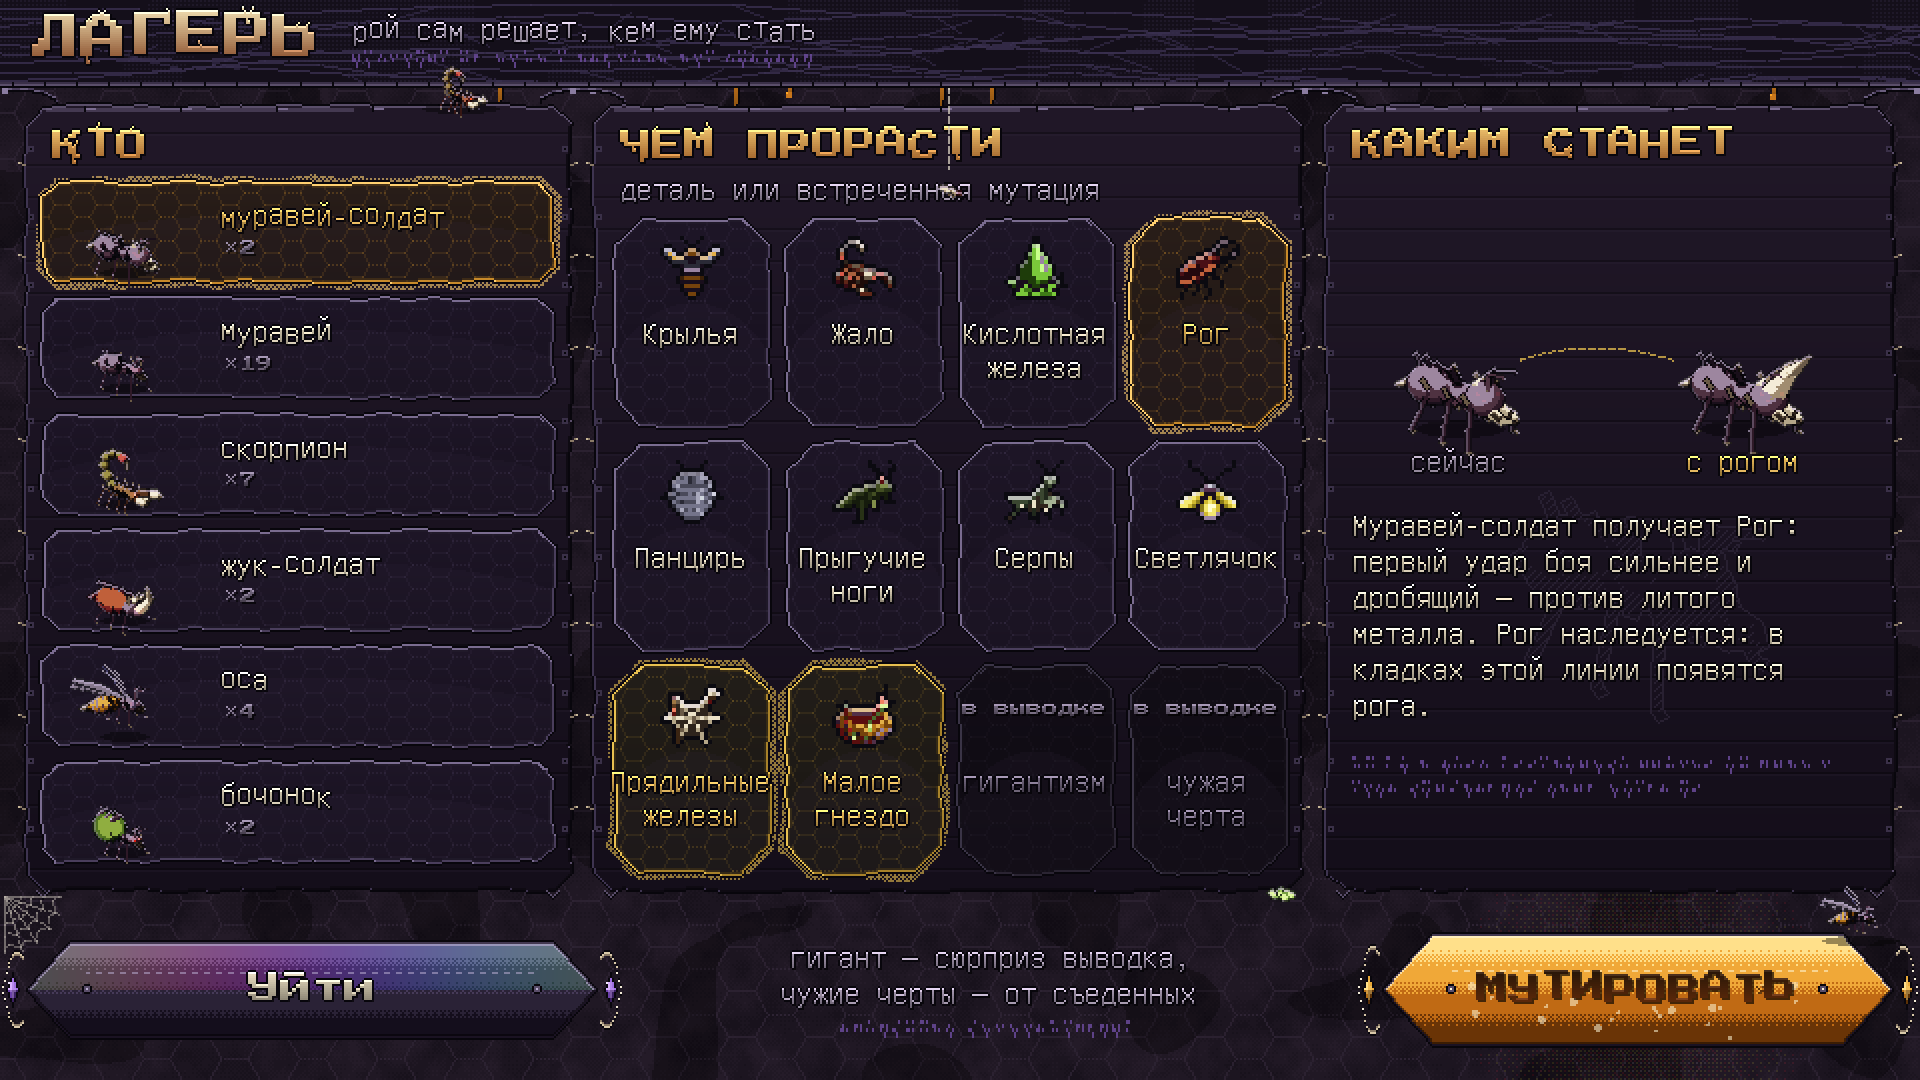
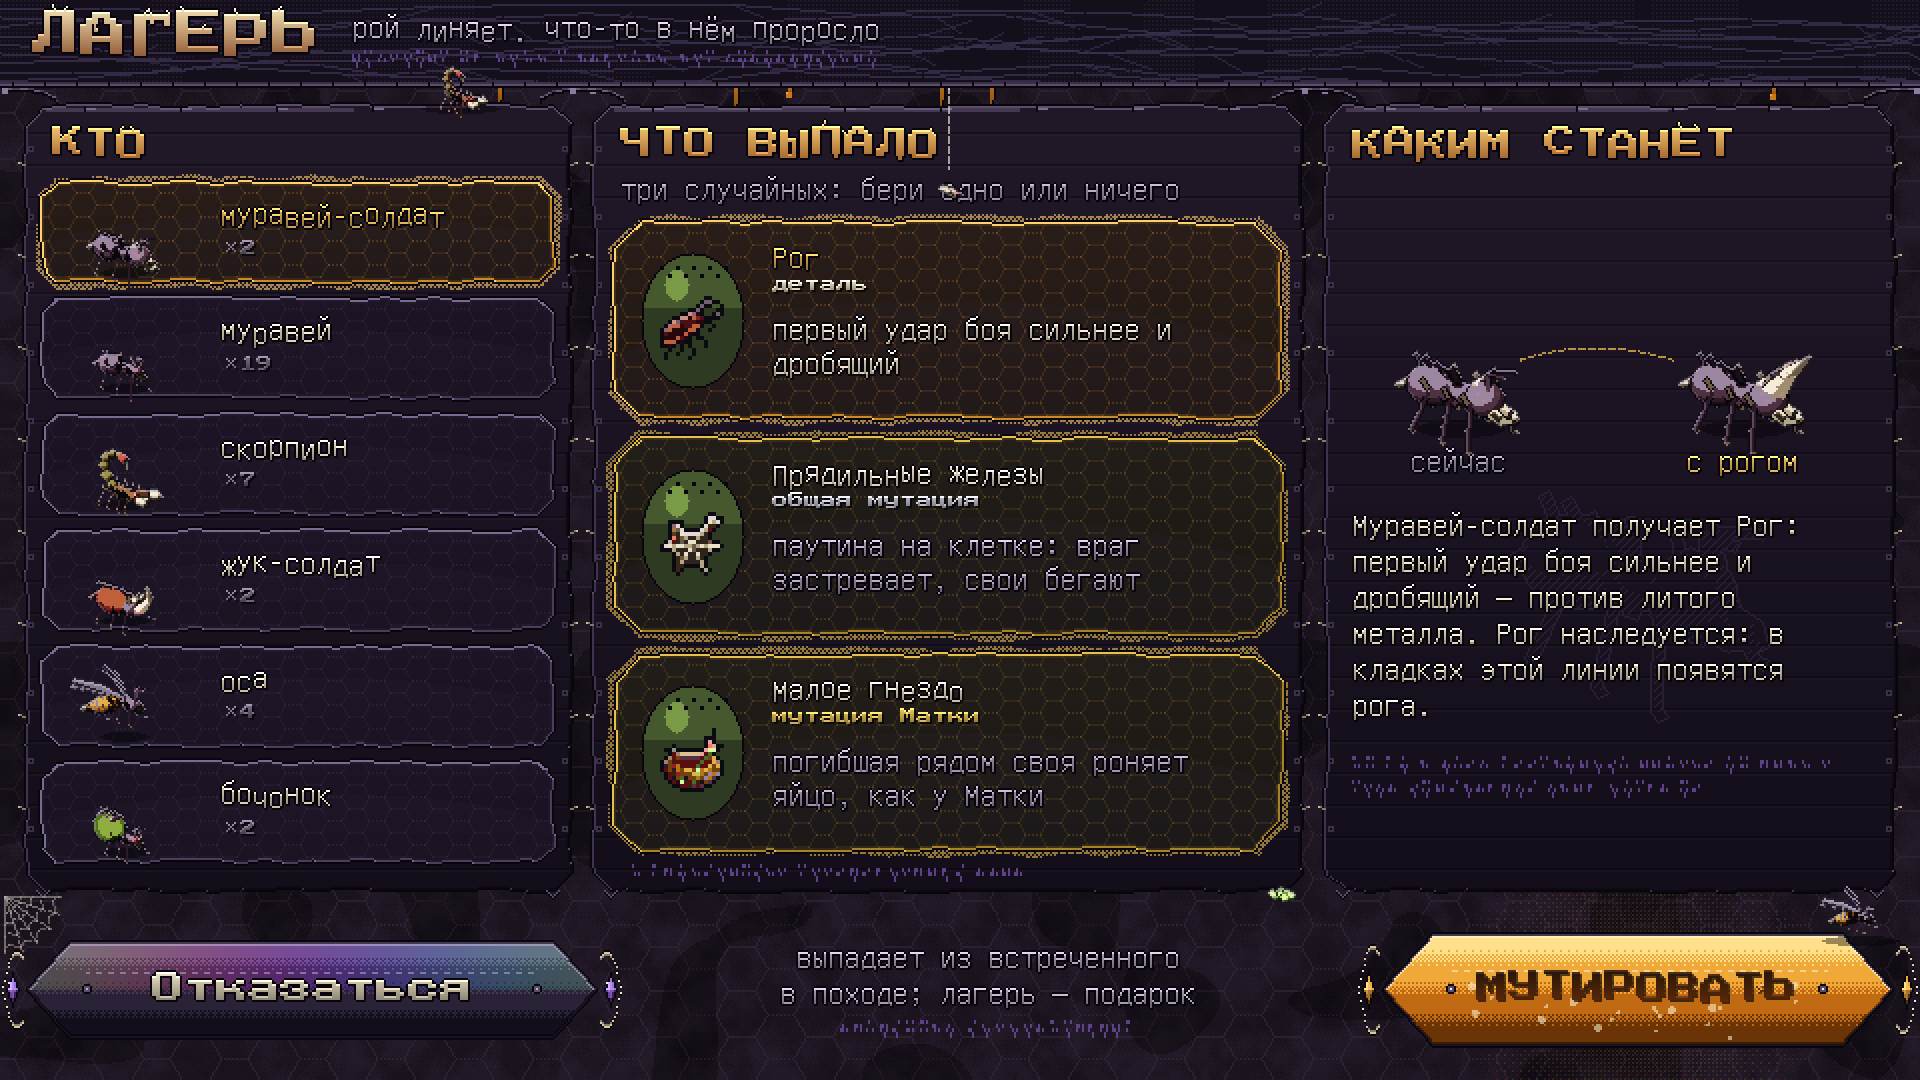
Рой: мутации в лагере случайны — три варианта, одна особь берёт один или отказывается
Claude-Session: https://claude.ai/code/session_01Bh6a99SKMjjKSinDnrtssC

diff --git a/tools/sprites/swarm_hud.py b/tools/sprites/swarm_hud.py
@@ -189,7 +189,7 @@ def camp():
     sc = frame_screen(73)
     UI.wing(sc, 0, 0, WW, 44)
     UI.drips(sc, 60, 900, 44, "#b06818", n=6, seed=5)
-    title(sc, "ЛАГЕРЬ", "рой сам решает, кем ему стать", seed=21)
+    title(sc, "ЛАГЕРЬ", "рой линяет. что-то в нём проросло", seed=21)
     # who
     UI.plate(sc, 12, 52, 286, 446, antennae=True)
     heading(sc, "КТО", 26, 64, seed=1)
@@ -199,26 +199,35 @@ def camp():
         put(sc, W.build(traits, 0.03, "idle", soldier, k=1.1 if soldier else 1.4, genes=W.genes_for(70 + i)), 62, y0 + 46, 12)
         letters(sc, name, 110, y0 + 9, "text", 16, col=GOLD if i == 0 else INK, jitter=1, seed=i)
         letters(sc, f"×{n}", 112, y0 + 30, "title", 8, col=PALE, outline=False)
-    # what it sprouts
+    # what fell out: three random offers, one of them or nothing
     UI.plate(sc, 296, 52, 652, 446, antennae=True)
-    heading(sc, "ЧЕМ ПРОРАСТИ", 310, 64, seed=2)
-    letters(sc, "деталь или встреченная мутация", 310, 86, "text", 16, col=MUTED)
-    keys = [d[0] for d in SS.DETAILS] + ["m_" + r[0] for r in SS.MUTS_MET] + ["giant", "chimera"]
-    names = {d_[0]: d_[1] for d_ in SS.DETAILS}
-    names.update({"m_" + r[0]: r[1] for r in SS.MUTS_MET})
-    names.update(giant="гигантизм", chimera="чужая черта")
-    for k_, key in enumerate(keys):
-        x0, y0 = 306 + (k_ % 4) * 86, 108 + (k_ // 4) * 112
-        locked = key in ("giant", "chimera")
-        UI.cell(sc, x0, y0, x0 + 80, y0 + 106, "locked" if locked else ("hi" if k_ == SS.PICK else ("mut" if key.startswith("m_") else "normal")))
-        if not locked:
-            icon(sc, key, x0 + 24, y0 + 10, 2)
-        lines = wrap(names[key], 74)
-        for n_, ln in enumerate(lines):
-            letters(sc, ln, x0 + 40, y0 + 50 + n_ * 17, "text", 16,
-                    col=PALE if locked else (GOLD if key.startswith("m_") or k_ == SS.PICK else INK), align="center")
-        if locked:
-            letters(sc, "в выводке", x0 + 40, y0 + 18, "title", 8, col=PALE, outline=False, align="center")
+    heading(sc, "ЧТО ВЫПАЛО", 310, 64, seed=2)
+    letters(sc, "три случайных: бери одно или ничего", 310, 86, "text", 16, col=MUTED)
+    offers = [("horn", "Рог", "деталь", "первый удар боя сильнее и дробящий", (236, 224, 196)),
+              ("m_spinner", "Прядильные железы", "общая мутация", "паутина на клетке: враг застревает, свои бегают", (206, 206, 222)),
+              ("m_nest", "Малое гнездо", "мутация Матки", "погибшая рядом своя роняет яйцо, как у Матки", (240, 200, 90))]
+    X, Y = sc.xx, sc.yy
+    for k_, (key, name, kind, what, kcol) in enumerate(offers):
+        y0 = 110 + k_ * 108
+        UI.cell(sc, 306, y0, 642, y0 + 100, "hi" if k_ == 0 else ("mut" if key.startswith("m_") else "normal"))
+        ex, ey = 346, y0 + 50                                   # each offer hatched from its own egg
+        egg = ((X - ex) / 26) ** 2 + ((Y - ey) / 34) ** 2 <= 1
+        sc.rgb[egg] = hexc("#2e3a22")
+        sc.rgb[egg & (Y < ey - 6)] = hexc("#46582e")
+        sc.rgb[egg & (((X - ex + 8) / 6) ** 2 + ((Y - ey + 18) / 8) ** 2 <= 1)] = hexc("#7a9a48")
+        eo, _, _ = UI.edges(egg)
+        sc.rgb[eo] = UI.OUTL
+        for t in range(9):                                     # the crack it came out of
+            cx_, cy_ = ex - 16 + t * 4, ey - 26 + (3 if t % 2 else -1)
+            sc.rgb[int(cy_):int(cy_) + 2, int(cx_):int(cx_) + 2] = UI.OUTL
+        sc.occ[egg] = True
+        sc.light[egg] = 0
+        icon(sc, key, ex - 16, ey - 12, 2)
+        letters(sc, name, 386, y0 + 10, "text", 16, col=GOLD if k_ == 0 else INK, jitter=1, seed=k_)
+        letters(sc, kind, 386, y0 + 28, "title", 8, col=kcol, outline=False)
+        for n_, ln in enumerate(wrap(what, 244)):
+            letters(sc, ln, 386, y0 + 46 + n_ * 17, "text", 16, col=MUTED if k_ else INK)
+    scribble(sc, 316, 434, 200, seed=36)
     # what it becomes
     UI.plate(sc, 662, 52, 948, 446, antennae=True)
     UI.engrave(sc, bug((), "idle", 4.2, 70, soldier=True), 820, 330, col="#2a2234", k=0.9)
@@ -236,11 +245,11 @@ def camp():
     scribble(sc, 676, 392, 180, seed=32)
     # leave / mutate
     UI.button(sc, 12, 470, 300, 520, "chitin")
-    letters(sc, "Уйти", 156, 486, "title", 16, col=INK, align="center")
+    letters(sc, "Отказаться", 156, 486, "title", 16, col=INK, align="center")
     UI.button(sc, 690, 466, 948, 524, "amber")
     letters(sc, "МУТИРОВАТЬ", 819, 486, "title", 16, col=DARK, col2=(90, 40, 10), outline=False, align="center", jitter=1)
-    letters(sc, "гигант — сюрприз выводка,", 495, 470, "text", 16, col=MUTED, align="center")
-    letters(sc, "чужие черты — от съеденных", 495, 488, "text", 16, col=MUTED, align="center")
+    letters(sc, "выпадает из встреченного", 495, 470, "text", 16, col=MUTED, align="center")
+    letters(sc, "в походе; лагерь — подарок", 495, 488, "text", 16, col=MUTED, align="center")
     scribble(sc, 420, 512, 150, seed=33)
     # the living
     UI.creature(sc, bug(("stinger",), "idle", 1.0, 71), 230, 54)

diff --git a/docs/CONCEPT.md b/docs/CONCEPT.md
@@ -1040,7 +1040,7 @@
 | Предсмертный крик | постоянно | погибая, особь роя кричит в разум убийцы: тот получает 1 пси, мимо брони; безмозглый — 1 пси за каждые две смерти. Чем больше рой гибнет, тем дороже это врагу |
 | Захват разума | перезарядка 6 ходов | враг ниже половины здоровья переходит к рою: размер 1–3 — на 5 ходов, 4–5 — на 2 хода; размер 6–7 не переходит, его только оглушает на раунд |
 | Хрупкий мозг | слабость | мало здоровья и мягкое тело; гибель обезглавливает рой |
-| Мыслящая порода | правило похода | в выводке выпадают **пси-мутации** — на пси и страх (см. ниже); чаще у потомков тех, кто стоял в бою рядом с Разумом. В лагере их тоже можно выбрать |
+| Мыслящая порода | правило похода | в выводке выпадают **пси-мутации** — на пси и страх (см. ниже); чаще у потомков тех, кто стоял в бою рядом с Разумом. В лагере они тоже выпадают |
 
 Развитие: пси-удар на 4 клетки, перезарядка Захвата 4 хода или Помутнение шире — на 3 клетки.
 
@@ -1175,8 +1175,8 @@
   Одна мутация в пуле — **ключевая**: выпадает редко и меняет план боя. Пулы — в разделе каждого лидера.
 - **Развитие лидера сдвигает пул**: мутации ветки, которую усиливает выбранное развитие, выпадают
   чаще, так первые решения задают направление похода.
-- В лагере одну мутацию можно выбрать самому (см. «Выводок»). За поход виден не весь пул, поэтому
-  каждый поход собирается из разного.
+- Мутации всегда случайны. В лагере выпадают три случайных варианта, и одну особь можно изменить
+  одним из них (см. «Выводок»). За поход виден не весь пул, поэтому каждый поход собирается из разного.
 
 **Общий пул:**
 
@@ -1224,12 +1224,12 @@
 4. «В бой» — когда рой уложился в предел. «Автоотбор» съедает тех, чьи черты реже убивали; не
    нужно потомство — съешь всех новых, это и есть «пропустить».
 
-**В лагере рой выбирает мутацию сам**: одна особь получает черту по выбору игрока — деталь любой
-из восьми черт или мутацию — общую или своего лидера, — уже встречавшуюся в походе. Так выводят то, чего не хватает
-против следующего врага. Гигантизм и чужие черты так не берутся: гигант — сюрприз выводка,
-чужие черты — от съеденных.
+**Лагерь — подарок, а не магазин.** Выпадают три случайных варианта: детали или мутации (общие или
+своего лидера), уже встречавшиеся в походе. Игрок выбирает, какая особь изменится, и берёт один из трёх —
+или отказывается. Мутации остаются случайными, у игрока только выбор из выпавшего. Гигантизм и чужие
+черты в лагере не выпадают: гигант — сюрприз выводка, чужие черты — от съеденных.
 
-![Лагерь: мутация по выбору](images/swarm_camp.png)
+![Лагерь: три случайных варианта](images/swarm_camp.png)
 
 **Находки** — чтобы выводок не повторялся. Какая выпадет, зависит от прошедшего боя:
 
